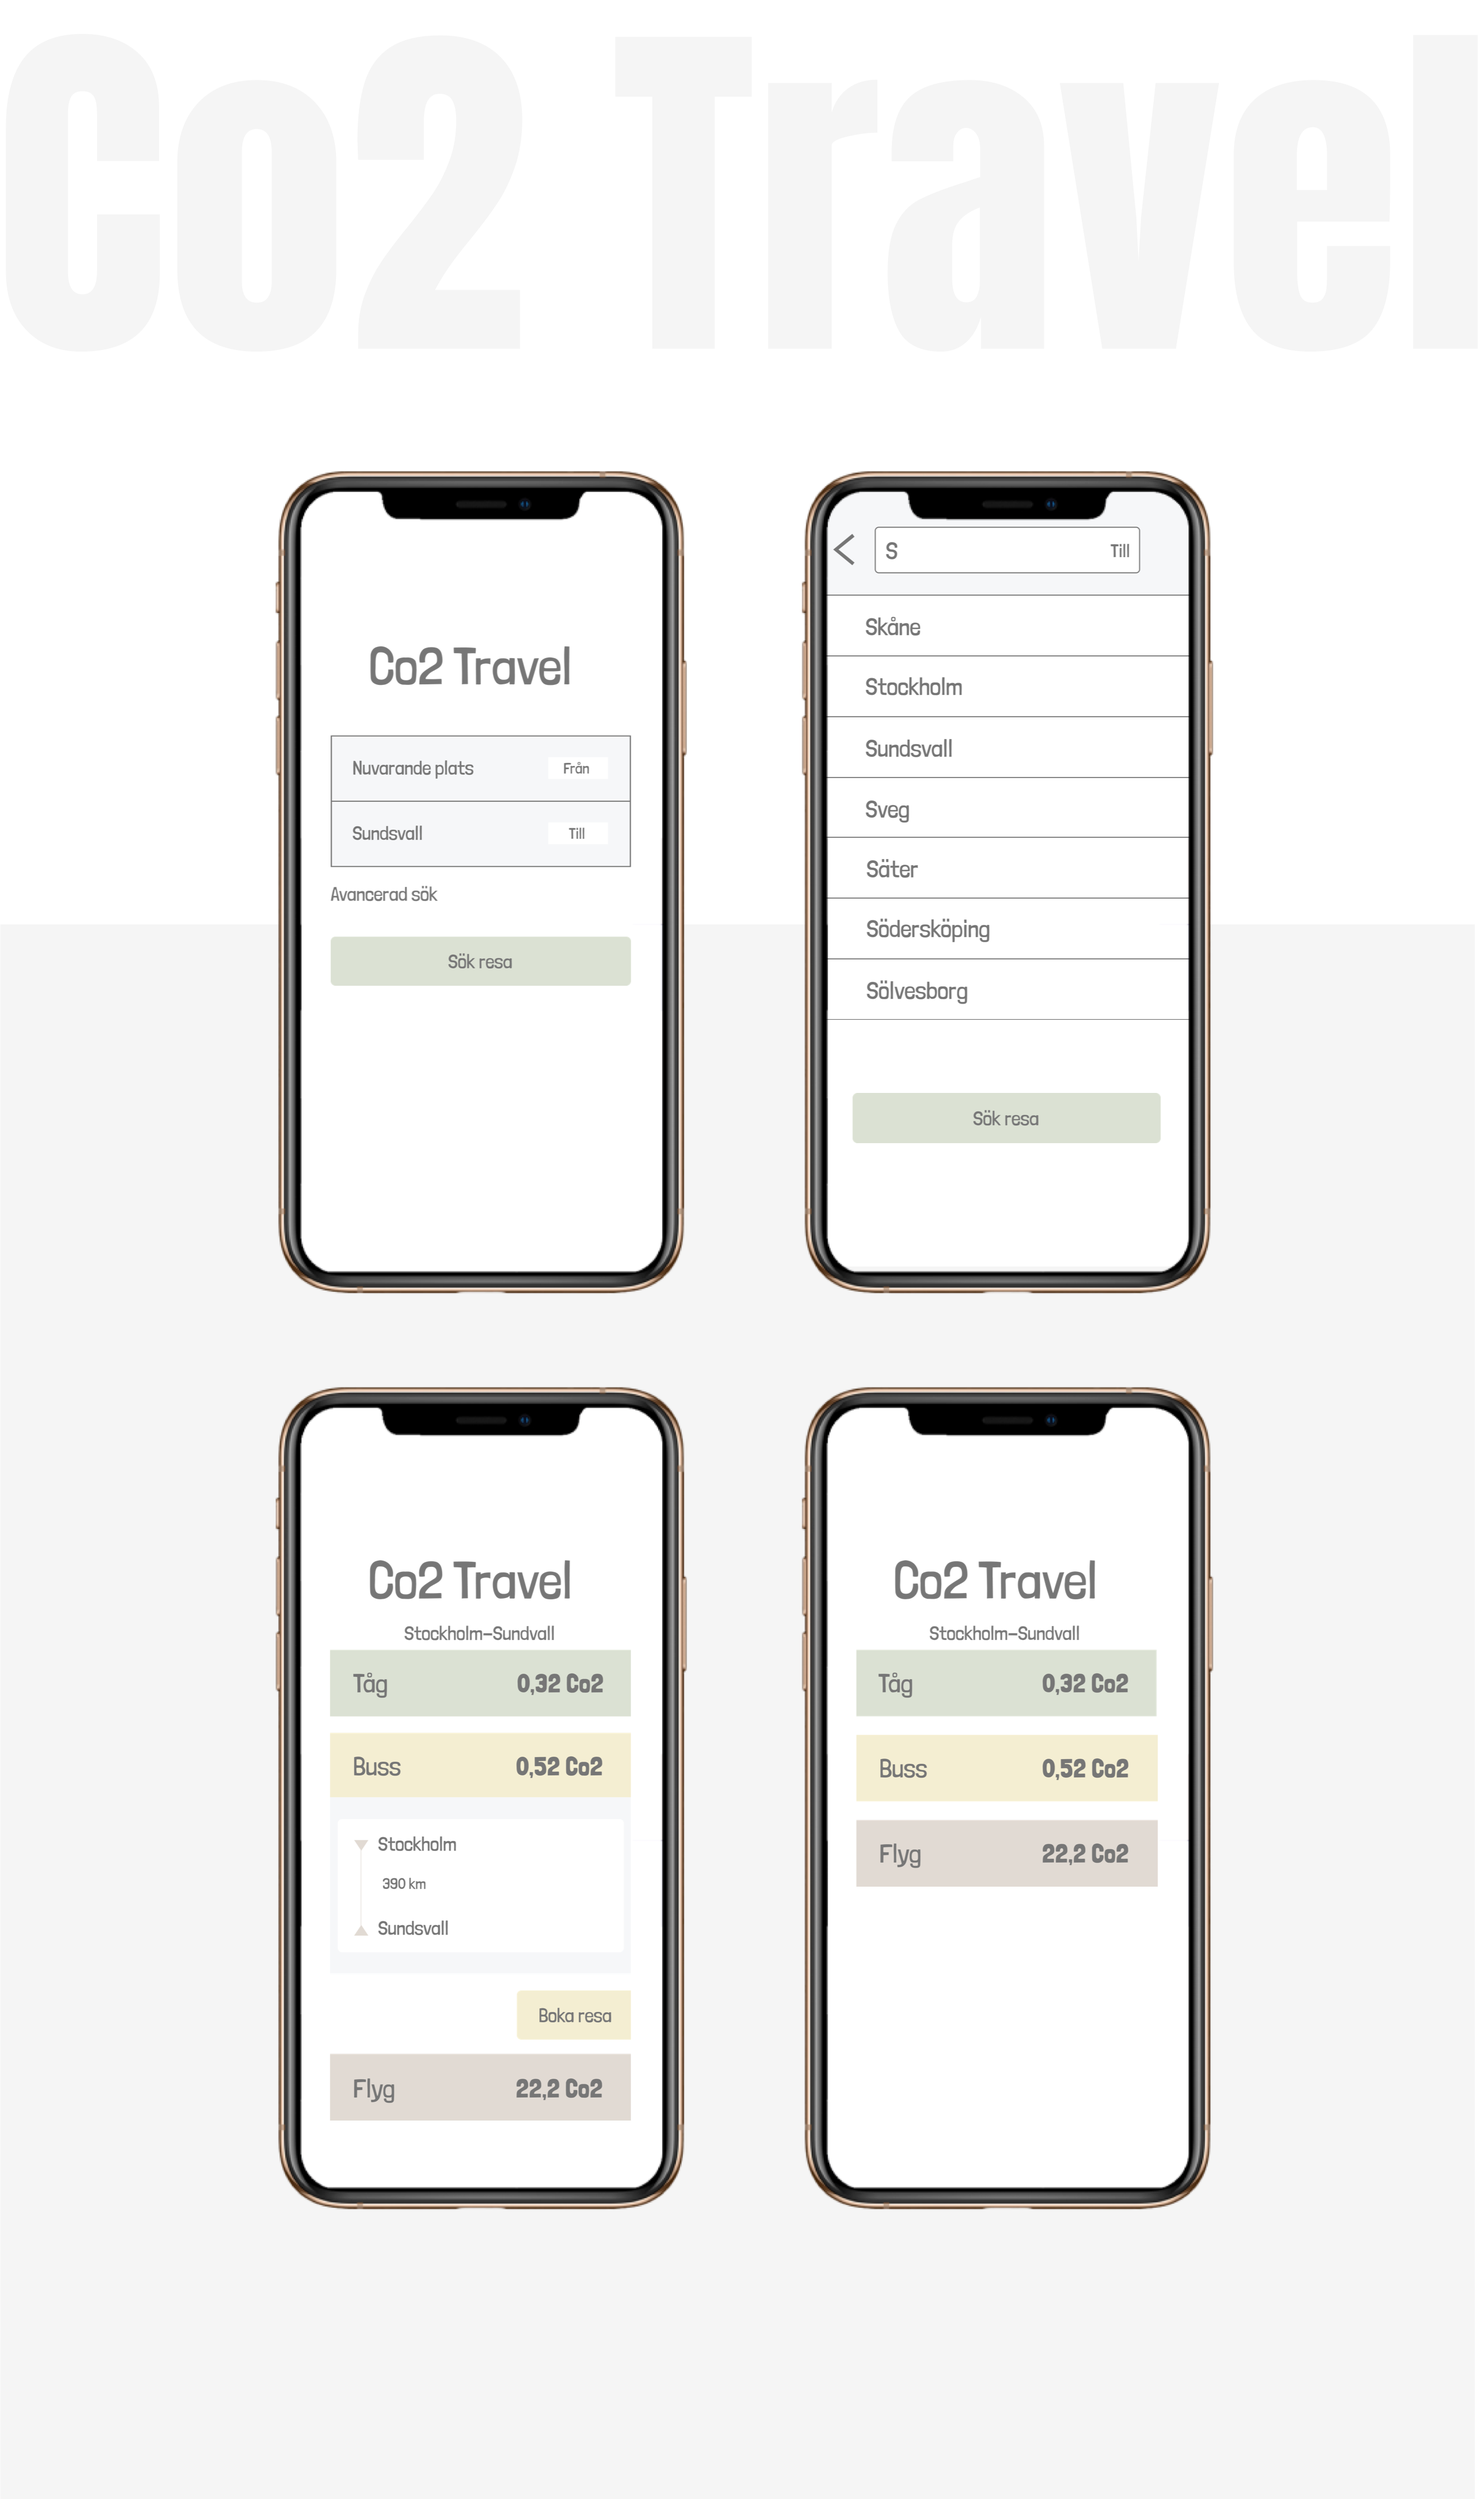
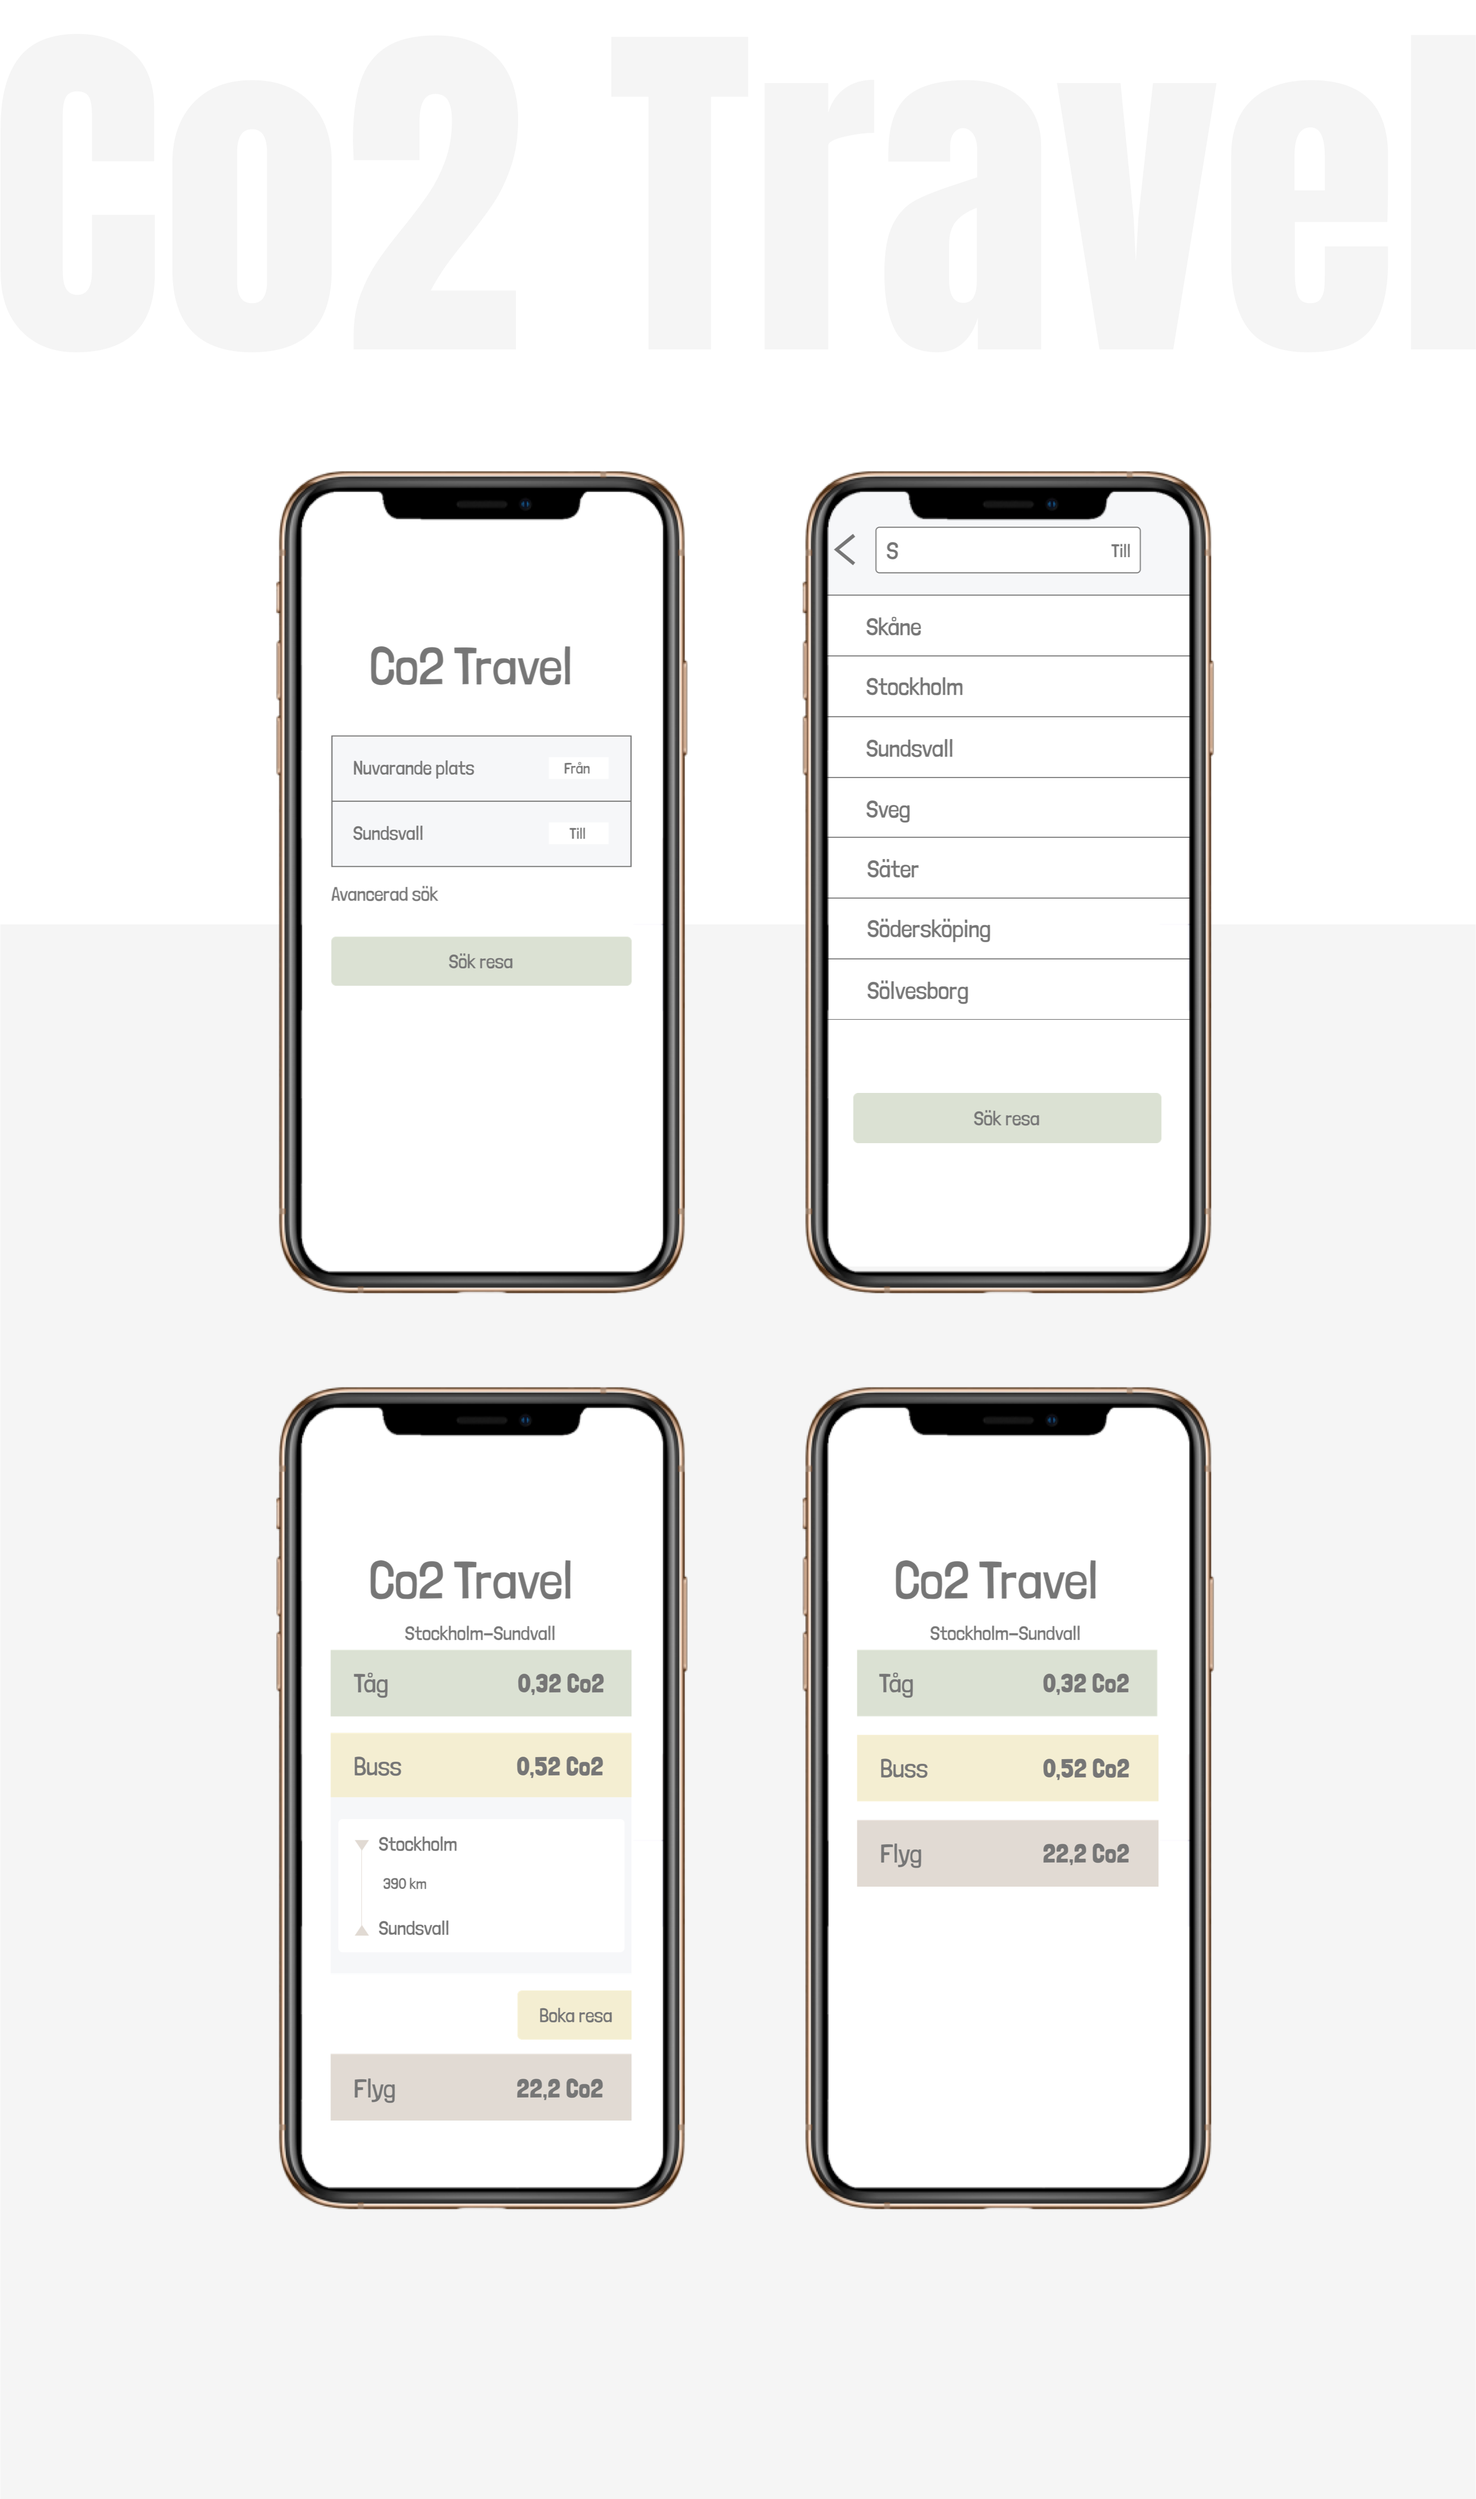
Convert png to jpg

diff --git a/participatory.html b/participatory.html
@@ -13,8 +13,8 @@
 
       <section class="row">
         <a class="link" href="project.html"><img src="close.svg"/></a>
-        <img src="participatory-mobile.png" class="image-steps mobile" />
-        <img src="participatory-desktop.png" class="image-steps desktop" />
+        <img src="participatory-mobile.jpg" class="image-steps mobile" />
+        <img src="participatory-desktop.jpg" class="image-steps desktop" />
       </section>
     </div>
   </body>

diff --git a/tarotappen.html b/tarotappen.html
@@ -13,8 +13,8 @@
 
       <section class="row">
         <a class="link" href="project.html"><img src="close.svg"/></a>
-        <img src="tarotappen-mobile.png" class="image-steps mobile" />
-        <img src="tarotappen-desktop.png" class="image-steps desktop" />
+        <img src="tarotappen-mobile.jpg" class="image-steps mobile" />
+        <img src="tarotappen-desktop.jpg" class="image-steps desktop" />
       </section>
     </div>
   </body>

diff --git a/eatgreener.html b/eatgreener.html
@@ -15,7 +15,7 @@
           <section class="row">
             <h1 class="desktop" style="margin-Bottom: 0px;">EatGreener</h1>
             <a class="link" href="project.html"><img src="close.svg"/></a>
-            <img src="EatGreener-mobile.png" class="image-steps mobile" />
+            <img src="EatGreener-mobile.jpg" class="image-steps mobile" />
 
 
             <div class="videoUltrafree desktop">

diff --git a/ultrafree.html b/ultrafree.html
@@ -15,7 +15,7 @@
           <section class="row">
             <h1 class="desktop" style="margin-Bottom: 0px;">Ultrafree</h1>
             <a class="link" href="project.html"><img src="close.svg"/></a>
-            <img src="Ultrafree-mobile.png" class="image-steps mobile" />
+            <img src="Ultrafree-mobile.jpg" class="image-steps mobile" />
 
 
             <div class="videoUltrafree desktop">

diff --git a/travelco2.html b/travelco2.html
@@ -14,7 +14,7 @@
       <section class="row">
         <h1 class="desktop" style="margin-Bottom: 0px;">Co2Travel</h1>
         <a class="link" href="project.html"><img src="close.svg"/></a>
-        <img src="Co2Travel-mobile.png" class="image-steps mobile" />
+        <img src="Co2Travel-mobile.jpg" class="image-steps mobile" />
 
 
         <div class="videoUltrafree desktop">
